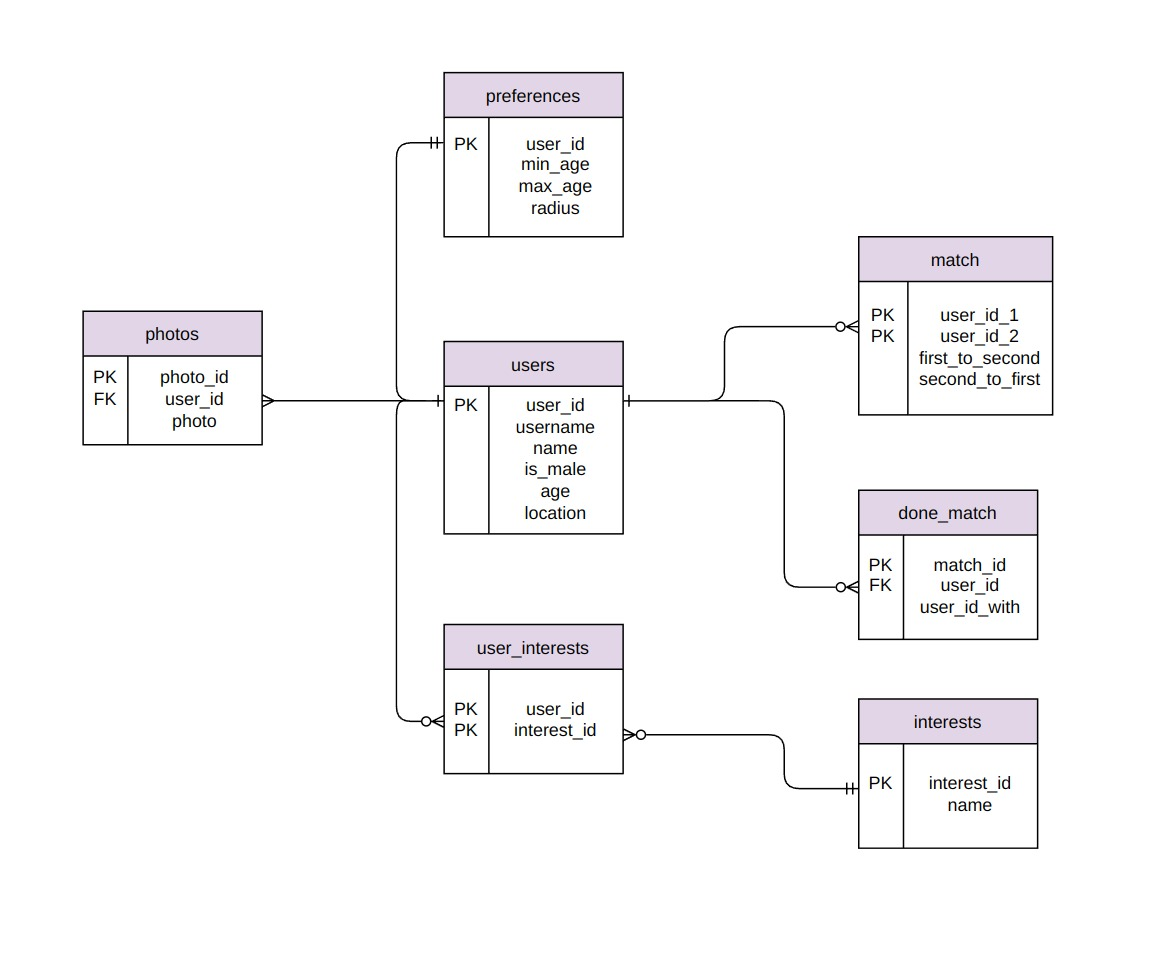
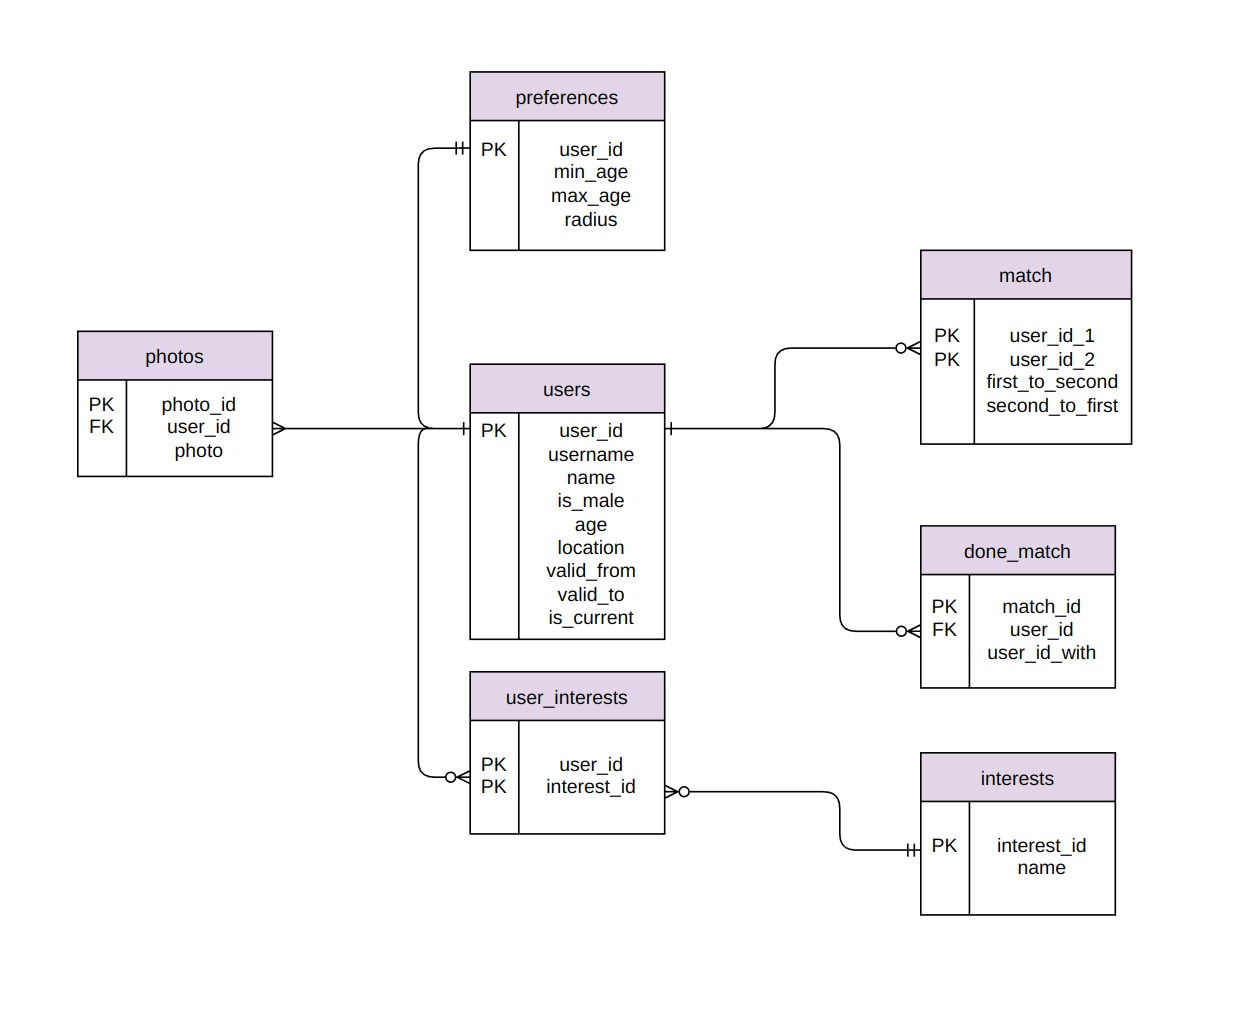
added scd2

diff --git a/src/database/queries.py b/src/database/queries.py
@@ -2,13 +2,13 @@ SELECT_USER_QUERY = '''
                 SELECT u.*, p.min_age, p.max_age, p.search_radius
                 FROM bot.users u
                 JOIN bot.preferences p ON u.user_id = p.user_id
-                WHERE u.user_id = $1
+                WHERE u.user_id = $1 AND is_current = TRUE
                 '''
 
 CHECK_USER_QUERY = '''
                 SELECT 1
                 FROM bot.users 
-                WHERE user_id = $1
+                WHERE user_id = $1 AND is_current = TRUE
                 '''
 
 SELECT_USER_PHOTO_QUERY = '''
@@ -19,7 +19,8 @@ SELECT_USER_PHOTO_QUERY = '''
 
 GET_USERS_COUNT_QUERY = '''
                 SELECT COUNT(*) AS count
-                FROM bot.users;
+                FROM bot.users
+                WHERE is_current = TRUE;
                 '''
 
 GET_STACK_QUERY = '''
@@ -85,7 +86,9 @@ GET_MATCHES_QUERY = '''
                 '''
 
 DELETE_USER_QUERY = '''
-                DELETE FROM bot.users WHERE user_id = $1
+                UPDATE bot.users
+                SET valid_to = CURRENT_TIMESTAMP, is_current = FALSE
+                WHERE user_id = $1 AND is_current = TRUE
                 '''
 
 INSERT_USER_QUERY = '''
